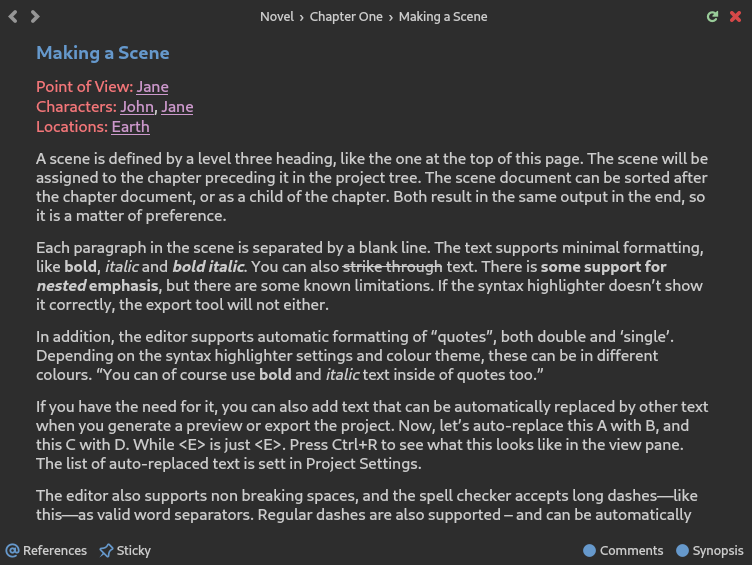
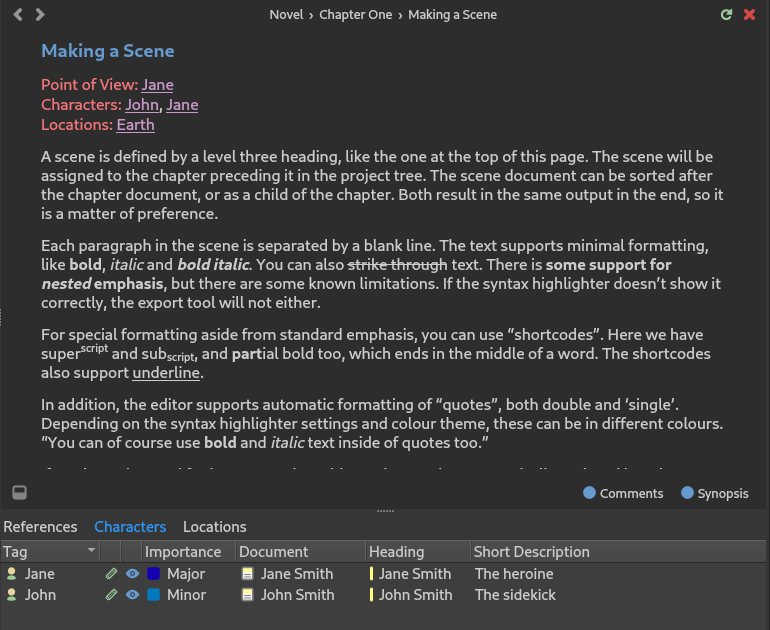
Update docs using novelWriter section

diff --git a/docs/source/usage_format.rst b/docs/source/usage_format.rst
@@ -7,7 +7,8 @@ Formatting Your Text
 The novelWriter text editor is a plain text editor that uses formatting codes for setting meta data
 values and allowing for some text formatting. The syntax is based on Markdown, but novelWriter is
 *not* a Markdown editor. It supports basic formatting like emphasis (italic), strong importance
-(bold) and strikethrough text, as well as four levels of headings.
+(bold) and strike through text, as well as four levels of headings. Form some further complex
+formatting needs, a set of shortcodes can be used.
 
 In addition to formatting codes, novelWriter allows for comments, a synopsis tag, and a set of
 keyword and value sets used for :term:`tags<tag>` and :term:`references<reference>`. There are also
@@ -20,7 +21,7 @@ Syntax Highlighting
 ===================
 
 The editor has a syntax highlighter feature that is meant to help you know when you've used the
-formtatting tags or other features correctly. It will change the colour and font size of your
+formatting tags or other features correctly. It will change the colour and font size of your
 headings, change the text colour of emphasised text, and it can also show you where you have
 dialogue in your text.
 
@@ -94,7 +95,7 @@ A text paragraph is indicated by a blank line. That is, you need two line breaks
 fragments of text into two paragraphs. Single line breaks are treated as line breaks within a
 paragraph.
 
-In addition, the editor supports a few additional types of whitespaces:
+In addition, the editor supports a few additional types of white spaces:
 
 * A non-breaking space can be inserted with :kbd:`Ctrl+K`, :kbd:`Space`.
 * Thin spaces are also supported, and can be inserted with :kbd:`Ctrl+K`, :kbd:`Shift+Space`.
@@ -126,7 +127,7 @@ A minimal set of text emphasis styles are supported for text paragraphs.
    The text is rendered as strongly important text (bold).
 
 ``~~text~~``
-   Strikethrough text.
+   Strike through text.
 
 In Markdown guides it is often recommended to differentiate between strong importance and emphasis
 by using ``**`` for strong and ``_`` for emphasis, although Markdown generally also supports ``__``
@@ -136,8 +137,8 @@ recommendation.
 
 In addition, the following rules apply:
 
-1. The emphasis and strikethrough formatting tags do not allow spaces between the words and the tag
-   itself. That is, ``**text**`` is valid, ``**text **`` is not.
+1. The emphasis and strike through formatting tags do not allow spaces between the words and the
+   tag itself. That is, ``**text**`` is valid, ``**text **`` is not.
 2. More generally, the delimiters must be on the outer edge of words. That is, ``some **text in
    bold** here`` is valid, ``some** text in bold** here`` is not.
 3. If using both ``**`` and ``_`` to wrap the same text, the underscore must be the *inner*
@@ -146,13 +147,46 @@ In addition, the following rules apply:
 4. Text emphasis does not span past line breaks. If you need to add emphasis to multiple lines or
    paragraphs, you must apply it to each of them in turn.
 5. Text emphasis can only be used in plain paragraphs. Comments, titles, and meta data tags don't
-   allow for formatting, and any formatting markup will be renderred as-is.
+   allow for formatting, and any formatting markup will be rendered as-is.
 
 .. tip::
    novelWriter supports standard escape syntax for the emphasis markup characters in case the
    editor misunderstands your intended usage of them. That is, ``\*``, ``\_`` and ``\~`` will
    generate a plain ``*``, ``_`` and ``~``, respectively, without interpreting them as part of the
    markup.
+
+
+.. _a_fmt_shortcodes:
+
+Extended Formatting with Shortcodes
+===================================
+
+For additional formatting options, you can use shortcodes. Shortcodes is a form of in-line codes
+that can be used to change the format of the text that follows and opening code, and last until
+that formatting region is ended with a closing code.
+
+These shortcodes are intended for special formatting cases, or more complex cases that cannot be
+solved with simple Markdown-like formatting codes. Available shortcodes are listed below.
+
+.. csv-table:: Shortcodes Formats
+   :header: "Syntax", "Description"
+   :widths: 40, 60
+   :class: "tight-table"
+
+   "``[b]text[/b]``",     "Text is rendered as bold text."
+   "``[i]text[/i]``",     "Text is rendered as italicised text."
+   "``[s]text[/s]``",     "Text is rendered as strike through text."
+   "``[u]text[/u]``",     "Text is rendered as underlined text."
+   "``[sup]text[/sup]``", "Text is rendered as superscript text."
+   "``[sub]text[/sub]``", "Text is rendered as subscript text."
+
+Unlike Markdown style codes, these can be used anywhere within a paragraph. Even in the middle of a
+word if you need to. You can also freely combine them to form more complex formatting.
+
+The shortcodes are available from the :guilabel:`Format` menu and in the editor toolbar, which can
+be activated by clicking the three dots in the editor header.
+
+.. versionadded:: 2.2
 
 
 .. _a_fmt_comm:
@@ -169,19 +203,25 @@ in a special manner and will show up in the :ref:`a_ui_outline` in a dedicated c
 ``synopsis`` is not case sensitive. If it is correctly formatted, the syntax highlighter will
 indicate this by altering the colour of the word.
 
-``% text...``
+``% text ...``
    This is a comment. The text is not rendered by default (this can be overridden), seen in the
    document viewer, or counted towards word counts.
 
-``% Synopsis: text...``
+``%Synopsis: text ...``
    This is a synopsis comment. It is generally treated in the same way as a regular comment, except
    that it is also captured by the indexing algorithm and displayed in the :ref:`a_ui_outline`. It
    can also be filtered separately when building the project to for instance generate an outline
    document of the whole project.
 
+``%Short: text ...``
+   This is a short description comment. It is identical to the synopsis comment, but is intended to
+   be used for project notes. The text shows up in the Reference panel below the document viewer in
+   the last column labelled :guilabel:`Short Description`.
+
 .. note::
-   Only one comment can be flagged as a synopsis comment for each heading. If multiple comments are
-   flagged as synopsis comments, the last one will be used and the rest ignored.
+   Only one comment can be flagged as a synopsis or short comment for each heading. If multiple
+   comments are flagged as synopsis or short comments, the last one will be used and the rest
+   ignored.
 
 
 .. _a_fmt_tags:
@@ -204,8 +244,9 @@ References are in the form:
 ``@keyword: value``
    A reference keyword followed by a value, or a comma separated list of values.
 
-Tags andreferences are covered in detail in the :ref:`a_references` chapter. The keywords can be
-inserted at the cursor position in the editor via the :guilabel:`Insert` menu.
+Tags and references are covered in detail in the :ref:`a_references` chapter. The keywords can be
+inserted at the cursor position in the editor via the :guilabel:`Insert` menu. If you start typing
+an ``@`` on a new line, and auto-complete menu will also pop up suggesting keywords.
 
 
 .. _a_fmt_align:

diff --git a/docs/source/usage_breakdown.rst b/docs/source/usage_breakdown.rst
@@ -23,6 +23,7 @@ at the same time provide useful features needed for writing a novel.
 
 The main window does not have an editor toolbar like many other applications do. This reduces
 clutter, and since the documents are formatted with style tags, it is more or less redundant.
+
 Most formatting features supported are available through convenient keyboard shortcuts. They are
 also available in the main menu, so you don't have to look up formatting codes every time you need
 them. For reference, a list of all shortcuts can be found in the :ref:`a_kb` chapter.
@@ -36,13 +37,18 @@ On the left side of the main window, you will find a sidebar. This bar has butto
 views you can switch between, a quick link to the :guilabel:`Build Manuscript` tool, and a set of
 project-related tools and quick access to settings at the bottom.
 
+.. versionadded:: 2.2
+   A number of new formatting options were added in 2.2 to allow for some special formatting cases.
+   At the same time, a small formatting toolbar was added in the editor. It is hidden by default,
+   but can be opened by pressing the three dots icon in the top right corner.
 
-Project Tree View
------------------
+
+Project Tree and Editor View
+----------------------------
 
 .. figure:: images/fig_project_tree_view.png
 
-   A screenshot of the Project Tree View.
+   A screenshot of the Project Tree and Editor View.
 
 When in :guilabel:`Project Tree View` mode, the main work area of the main window is split in two,
 or optionally three, panels. The left-most panel contains the project tree and all the documents in
@@ -59,8 +65,8 @@ the editor's header, or by pressing :kbd:`F8`. When :guilabel:`Focus Mode` is en
 interface elements other than the document editor itself are hidden away.
 
 
-Novel Tree View
----------------
+Novel Tree and Editor View
+--------------------------
 
 .. figure:: images/fig_novel_tree_view.png
 
@@ -134,7 +140,7 @@ This is a brief introduction to how you structure your writing projects. All of 
 covered in more detail later.
 
 The main point of novelWriter is that you are free to organise your project documents as you wish
-into subfolders or subdocuments, and split the text between these documents in whatever way suits
+into sub-folders or sub-documents, and split the text between these documents in whatever way suits
 you. All that matters to novelWriter is the linear order the documents appear at in the project
 tree (top to bottom). The chapters, scenes and sections of the novel are determined by the headings
 within those documents.
@@ -153,8 +159,8 @@ The four heading levels (**H1** to **H4**) are treated as follows:
 The project tree will select an icon for the document based on the first heading in it.
 
 This header level structure is only taken into account for :term:`novel documents`. For
-:term:`project notes`, the header levels have no structural meaning, and the user is free to do
-whatever they want. See :ref:`a_struct` and :ref:`a_references` for more details.
+:term:`project notes`, the header levels have no structural meaning, and you are free to use them
+however you want. See :ref:`a_struct` and :ref:`a_references` for more details.
 
 .. versionadded:: 2.0
    You can add documents as child items of other documents. This is often more useful than adding
@@ -173,8 +179,9 @@ The project can at any time be assembled into a range of different formats throu
 various flavours of Markdown.
 
 The HTML5 format is suitable for conversion by a number of other tools like Pandoc_, or for
-importing into word processors if the Open Document format isn't suitable. In addition, printing
-is also possible. Print to PDF is available from the print dialog.
+importing into word processors if the Open Document format isn't suitable. The Open Document format
+is supported by most Office type applications. In addition, printing is also possible. Print to PDF
+is available from the print dialog.
 
 In addition, you can export the content of the project to a JSON file. This is useful if you want
 to write your own custom processing script in for instance Python, as the entire novel can be read

diff --git a/docs/source/usage_writing.rst b/docs/source/usage_writing.rst
@@ -24,9 +24,8 @@ Markdown-like syntax for some features, and a novelWriter-specific syntax for ot
 format is described in the :ref:`a_fmt` chapter.
 
 The editor has a maximise button (toggles the :guilabel:`Focus Mode`) and a close button in the
-top--right corner. On the top--left side you will find an edit button that opens the
-:guilabel:`Item Label` dialog for the currently open document, and a search button to open the
-search dialog.
+top--right corner. On the top--left side you will find a tools button that opens a toolbar with a
+few buttons for applying text formatting, and a search button to open the search dialog.
 
 Both the document editor and viewer will show the label of the currently open document in the
 header at the top of the edit or view panel. Optionally, the full project path to the document can
@@ -38,6 +37,18 @@ be shown. This can be set in :guilabel:`Preferences`.
 
 Any :term:`references<reference>` in the editor can be opened in the viewer by moving the cursor to
 the label and pressing :kbd:`Ctrl+Return`. You can also control-click them with your mouse.
+
+
+Editor Auto-Completer
+---------------------
+
+If you type the character ``@`` on a new line, a context menu will appear showing the different
+available keywords. The list will shorten as you type. Once a keyword command has been selected or
+typed, the editor may suggest further content based on your project content. See
+:ref:`a_references_completer` for more details.
+
+.. versionadded:: 2.2
+   The auto-completer feature was added.
 
 
 .. _a_ui_view:
@@ -68,17 +79,19 @@ buttons, these can be used as well. They work just like the backward and forward
 browser.
 
 At the bottom of the view panel there is a :guilabel:`References` panel. (If it is hidden, click
-the icon next to it to reveal it.) This panel will show links to all documents referring back to
-the one you're currently viewing, if any has been defined. The :guilabel:`Sticky` button will
-freeze the content of the panel to the current document, even if you navigate to another document.
-This is convenient if you want to quickly look through all documents in the list in the
-:guilabel:`References` panel without losing the list in the process.
+the button on the left side of the footer area to reveal it.) This panel contains a References tab
+with links to all documents referring back to the one you're currently viewing, if any has been
+defined. If you have created root folders and tags for various story elements like characters and
+plot points, these will appear as additional tabs in this panel.
 
 .. note::
    The :guilabel:`References` panel relies on an up-to-date :term:`index<project index>` of the
    project. The index is maintained automatically. However, if anything is missing, or seems wrong,
    the index can always be rebuilt by selecting :guilabel:`Rebuild Index` from the
    :guilabel:`Tools` menu, or by pressing :kbd:`F9`.
+
+.. versionadded:: 2.2
+   The reference panel was redesigned and the additional tabs added.
 
 
 .. _a_ui_edit_search:

diff --git a/docs/source/usage_project.rst b/docs/source/usage_project.rst
@@ -28,7 +28,7 @@ the project, and has four columns.
 
 **Column 2**
    The second column shows the word count of the document, or the sum of words of the child items
-   for folders and documents with subdocuments. If the counts seem incorrect, they can be updated
+   for folders and documents with sub-documents. If the counts seem incorrect, they can be updated
    by rebuilding the :term:`project index` from the :guilabel:`Tools` menu, or by pressing
    :kbd:`F9`.
 
@@ -73,6 +73,7 @@ will find several options on how to change a document or folder. This includes c
 document and note, but also splitting them into multiple documents, or merging child items into a
 single document.
 
+
 Splitting Documents
 ^^^^^^^^^^^^^^^^^^^
 
@@ -90,6 +91,7 @@ hierarchy of documents. That is, put sections under scenes, and scenes under cha
 
 The source document *is not* deleted in the process, but you have the option to let the tool move
 the source document to the :guilabel:`Trash` folder.
+
 
 Merging Documents
 ^^^^^^^^^^^^^^^^^
@@ -137,10 +139,14 @@ The project tree allows drag & drop to a certain extent to allow you to reorder 
 folders. Moving a document in the project tree will affect the text's position when you assemble
 your manuscript in the :guilabel:`Manuscript Build` tool.
 
-Drag & drop has only limited support for moving documents. In general, bulk actions are not
-allowed. This is deliberate to avoid accidentally messing up your project. If you make a mistake,
-the last move action can be undone by pressing :kbd:`Ctrl+Shift+Z` or from the menu icon in the
-project tree's toolbar.
+.. versionadded:: 2.2
+   You can now select multiple items in the project tree by holding down the :kbd:`Ctrl` or
+   :kbd:`Shift` key while selecting items.
+
+You can drag and drop documents and regular folders, but not root folders. If you select multiple
+items, they can only be dragged and dropped if they are siblings. That is, they have the same
+parent item in the project. This is due to the way drag and drop is implemented in the user
+interface framework novelWriter is built upon.
 
 Documents and their folders can be rearranged freely within their root folders. If you move a Novel
 document out of a Novel folder, it will be converted to a project note. Notes can be moved freely
@@ -149,8 +155,8 @@ folder, its "Importance" setting will be switched with a "Status" setting. See
 :ref:`a_ui_tree_status`. The old value will not be overwritten though, and should be restored if
 you move it back at some point.
 
-Root folders in the project tree cannot be dragged & dropped at all. If you want to reorder them,
-you can move them up or down with respect to eachother from the arrow buttons at the top of the
+Root folders in the project tree cannot be dragged and dropped at all. If you want to reorder them,
+you can move them up or down with respect to each other from the arrow buttons at the top of the
 project tree, or by pressing :kbd:`Ctrl+Shift+Up` or :kbd:`Ctrl+Shift+Down` when they are selected.
 
 

diff --git a/docs/source/usage_typography.rst b/docs/source/usage_typography.rst
@@ -61,7 +61,7 @@ Single and Double Prime
 Both single and double prime symbols are available in the :guilabel:`Insert` menu. These symbols
 are the correct symbols to use for unit symbols for feet, inches, minutes, and seconds. The usage
 of these is described in more detail on the Wikipedia Prime_ page. They look very similar to single
-and double straight quotes, and may be renderred similarly by the font, but they have different
+and double straight quotes, and may be rendered similarly by the font, but they have different
 codes. Using these correctly will also prevent the auto-replace and dialogue highlighting features
 misunderstanding their meaning in the text.
 
@@ -74,7 +74,7 @@ even if it is intended as an apostrophe. This also includes the syntax highlight
 assume the first following apostrophe is the closing symbol of a single quoted region of text.
 
 To get around this, an alternative apostrophe is available. It is a special Unicode character that
-is not categorised as punctuation, but as a modifier. It is usually renderred the same way as the
+is not categorised as punctuation, but as a modifier. It is usually rendered the same way as the
 right single quotation marks, depending on the font. There is a Wikipedia article for the
 `Modifier letter apostrophe`_ with more details.
 

diff --git a/docs/source/usage_shortcuts.rst b/docs/source/usage_shortcuts.rst
@@ -104,7 +104,7 @@ Text Formatting Shortcuts
    ":kbd:`Ctrl+8`",       "Add a left margin to the block"
    ":kbd:`Ctrl+9`",       "Add a right margin to the block"
    ":kbd:`Ctrl+B`",       "Format selected text, or word under cursor, with strong emphasis (bold)"
-   ":kbd:`Ctrl+D`",       "Strikethrough selected text, or word under cursor"
+   ":kbd:`Ctrl+D`",       "Strike through selected text, or word under cursor"
    ":kbd:`Ctrl+I`",       "Format selected text, or word under cursor, with emphasis (italic)"
    ":kbd:`Ctrl+Shift+/`", "Remove block formatting for block under cursor"
 
